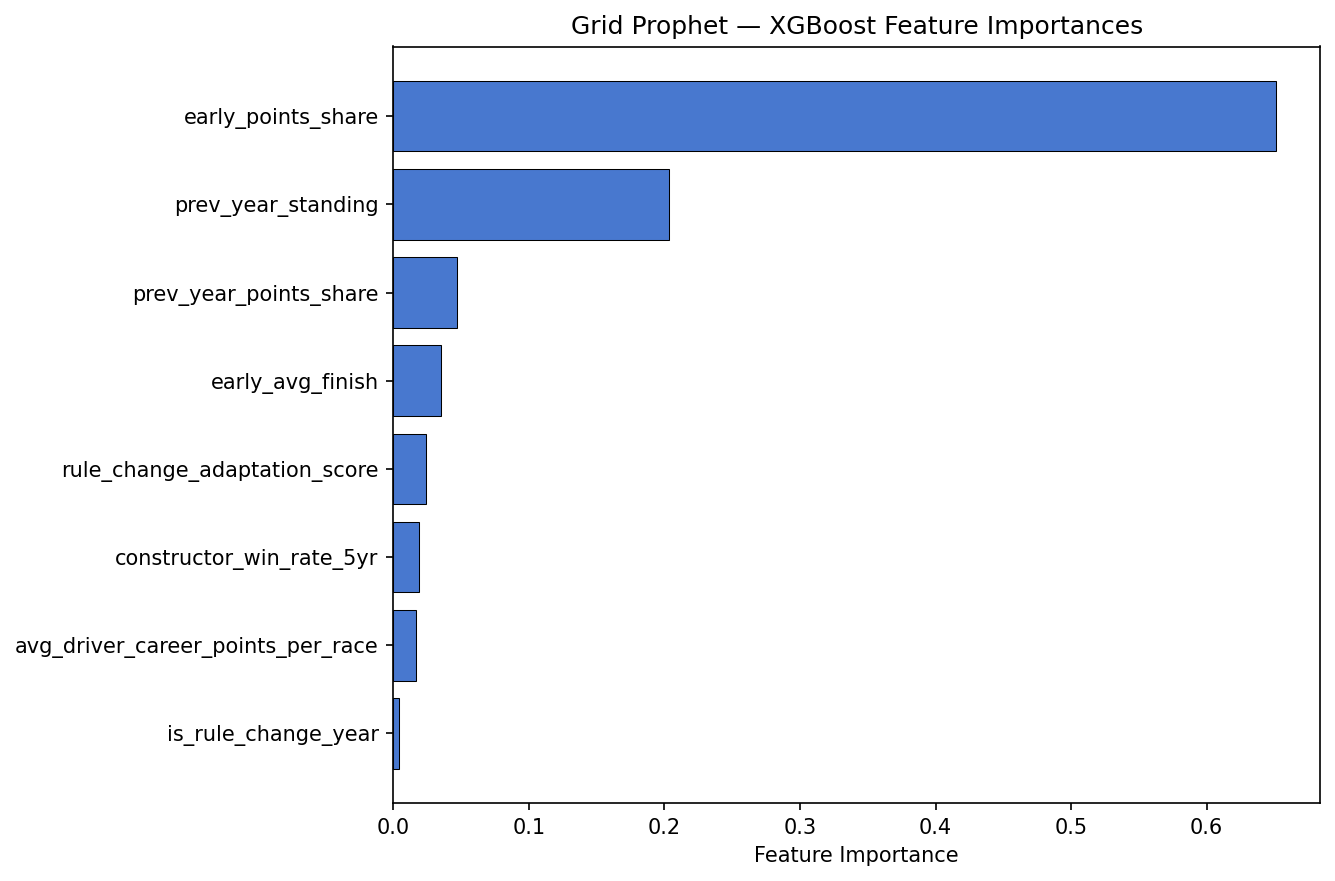
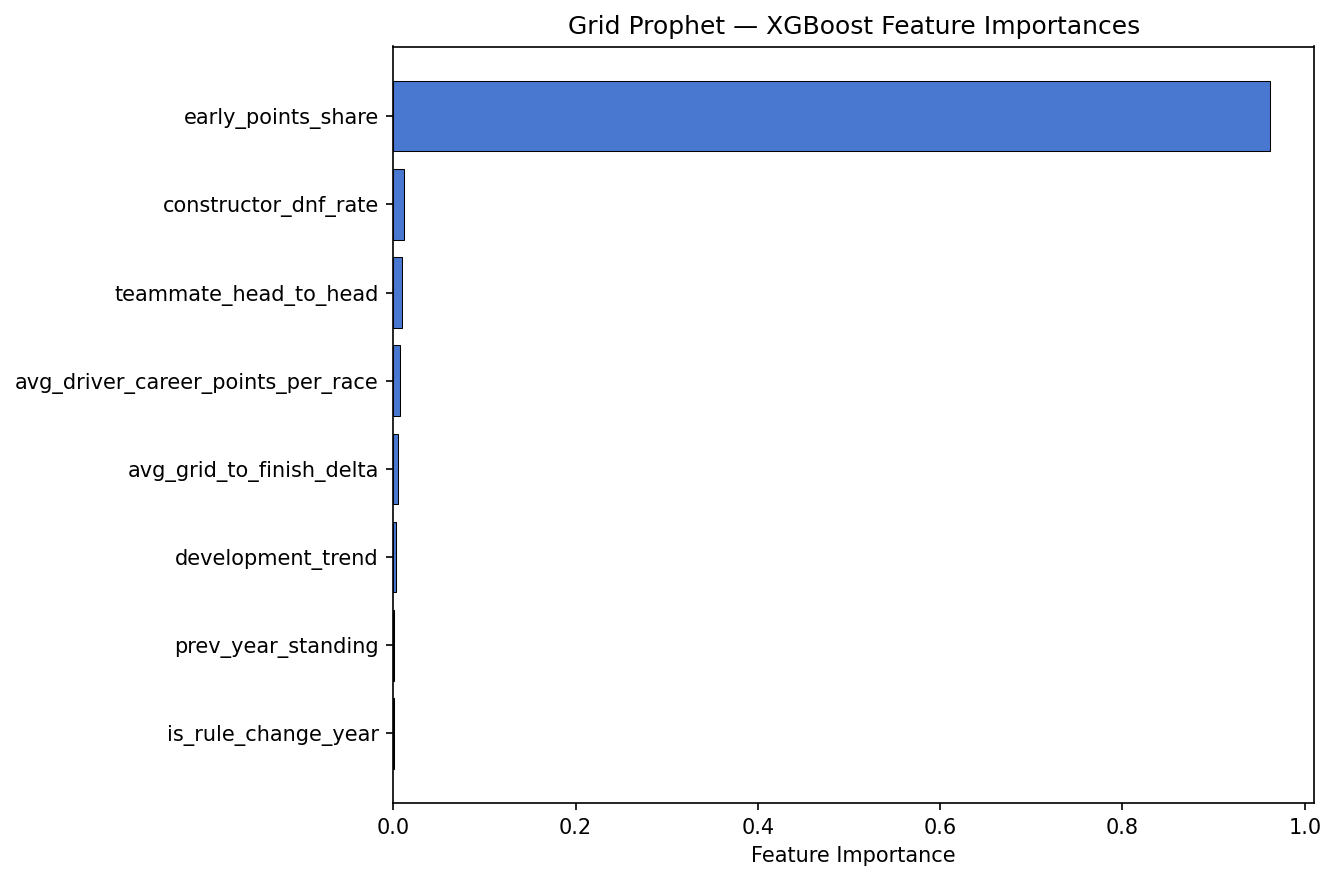
chore: regenerate charts and README predictions with expanded window and features
Retrained on rounds 1-11 of the 2026 season (auto-detected) with the
widened feature set and LassoCV selection. XGBoost remains the winner
(weight=2.5, avg Spearman 0.9689 in leave-one-season-out CV).

diff --git a/README.md b/README.md
@@ -1,6 +1,6 @@
 # Grid Prophet
 
-ML model trained on ~10 years of F1 data (via FastF1) to predict the 2026 constructor championship standings. Emphasizes early-season performance signals from the first 2 races and a rule-change-year adaptation variable to capture how teams historically perform during major regulation shifts like 2026.
+ML model trained on ~10 years of F1 data (via FastF1) to predict the 2026 constructor championship standings. Emphasizes early-season performance signals — auto-widened to cover however much of the season has actually run — and a rule-change-year adaptation variable to capture how teams historically perform during major regulation shifts like 2026.
 
 ## Quick Start
 
@@ -26,21 +26,21 @@ make run
 make plots
 ```
 
-## 2026 Predictions (after rounds 1–2)
+## 2026 Predictions (after rounds 1–11)
 
-| Rank | Constructor | Predicted Share |
-|------|-------------|----------------|
-| 1 | Mercedes | 30.4% |
-| 2 | Ferrari | 22.5% |
-| 3 | McLaren | 18.2% |
-| 4 | Red Bull Racing | 7.0% |
-| 5 | Williams | 6.1% |
-| 6 | Haas F1 Team | 5.9% |
-| 7 | Alpine | 4.2% |
-| 8 | Racing Bulls | 3.7% |
-| 9 | Audi | 2.7% |
-| 10 | Aston Martin | 1.0% |
-| 11 | Cadillac | -0.4% |
+| Rank | Constructor | Predicted Share | 80% CI |
+|------|-------------|----------------|--------|
+| 1 | Mercedes | 26.2% | ± 2.3% |
+| 2 | Ferrari | 23.6% | ± 1.2% |
+| 3 | McLaren | 15.0% | ± 1.2% |
+| 4 | Red Bull Racing | 15.0% | ± 1.1% |
+| 5 | Alpine | 4.9% | ± 0.5% |
+| 6 | Racing Bulls | 4.7% | ± 0.5% |
+| 7 | Haas F1 Team | 1.7% | ± 0.3% |
+| 8 | Audi | 1.5% | ± 0.3% |
+| 9 | Williams | 1.4% | ± 0.3% |
+| 10 | Cadillac | 0.2% | ± 0.2% |
+| 11 | Aston Martin | 0.1% | ± 0.1% |
 
 ## CLI Reference
 
@@ -62,9 +62,12 @@ PYTHONPATH=src python -m src <command> [flags]
 
 ```bash
 # predict.py
---rounds N        # Use N rounds of early-season data (default: 2)
+--rounds N        # Ad-hoc override: use N rounds of early-season data (default: EARLY_ROUNDS=2)
 --ensemble        # Use the ensemble model instead of base model
 --no-ci           # Skip bootstrap confidence intervals (faster)
+
+# features.py
+--early-rounds N  # Override the early-season round window (default: EARLY_ROUNDS=2)
 
 # train.py
 --ensemble        # Build ensemble bundle after training base model
@@ -79,11 +82,11 @@ make update
 PYTHONPATH=src python -m src update
 ```
 
-Auto-detects the latest completed round from FastF1 and re-predicts. Saves a round-stamped snapshot (`data/predictions_2026_r{N}.csv`) alongside the current `predictions_2026.csv`.
+Auto-detects the latest completed 2026 round from FastF1, rebuilds `features.csv` using that many rounds as the early-season window for **both** historical training seasons and the live 2026 row (so training and prediction never see a mismatched window), retrains the model, and re-predicts. Saves a round-stamped snapshot (`data/predictions_2026_r{N}.csv`) alongside the current `predictions_2026.csv`. `run` does the same after a fresh `collect`.
 
 ## How It Works
 
-The model uses per-constructor, per-season features — including early-season dominance signals, historical rule-change adaptation scores, prior-year momentum, and driver quality proxies — to predict each team's share of total championship points. Rule-change years are weighted more heavily during training to better capture the dynamics of regulation shifts.
+The model uses per-constructor, per-season features — including early-season dominance signals (points share, average finish, DNF rate, grid-to-finish delta, teammate head-to-head, in-window development trend), historical rule-change adaptation scores, prior-year momentum, and driver quality proxies — to predict each team's share of total championship points. Rule-change years are weighted more heavily during training to better capture the dynamics of regulation shifts. Before comparing Ridge and XGBoost, `train.py` runs LassoCV feature selection to drop features that don't earn their keep against the ~120-row dataset.
 
 An optional ensemble model blends the full-data model with a rule-change-years-only sub-model (trained on 2014, 2015, 2022, 2023). The blend weight α is tuned via leave-one-season-out CV on rule-change seasons.
 
